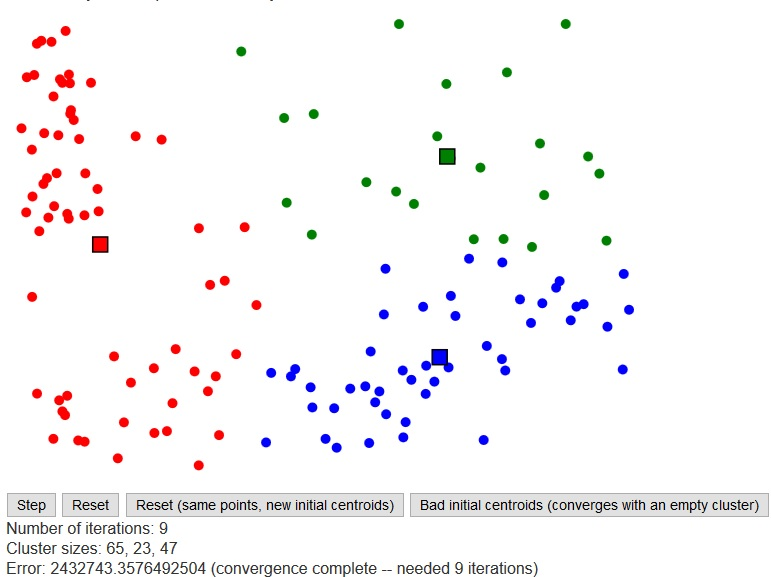
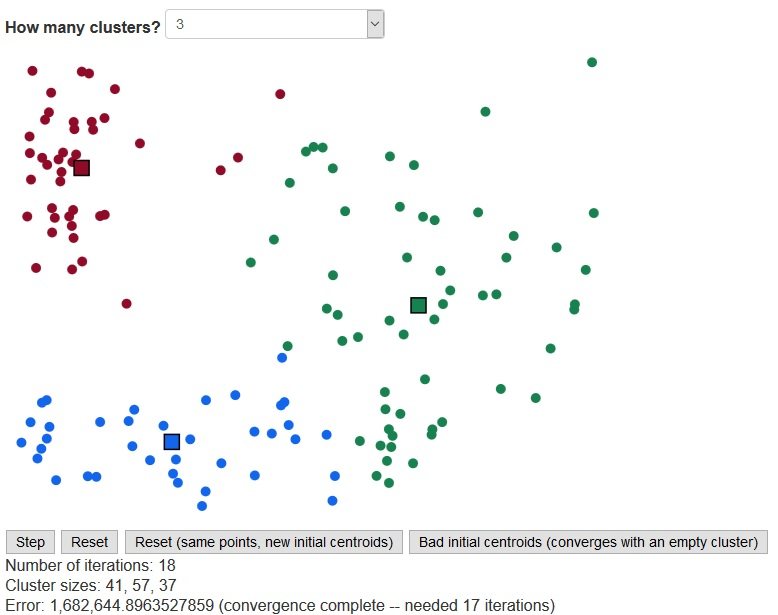
added support to vary k

diff --git a/kmeans.js b/kmeans.js
@@ -19,7 +19,32 @@ var MIDDLE_RIGHT_CLUSTER_SIZE = 20;
 var BOTTOM_CLUSTER_SIZE = 35;
 var NUM_ADDITIONAL_POINTS = 50;
 var NUM_CLUSTERS = 3;
-var COLORS = ["red", "green", "blue"];
+var COLORS = ["#910b28", "#178250", "#1266ed", "#ff7b00", "#80aa03"]; // red, blue, green, orange, yellowish-green
+
+function changeNumClusters(n) {
+	NUM_CLUSTERS = n;
+	resetCentroids();
+}
+
+function showNumberWithCommas(x) {
+	var xAsString = "" + x;
+	var decimalIndex = xAsString.indexOf(".");
+	var integerPart = "", decimalPart = "";
+	if(decimalIndex >= 0) {
+		var integerPart = xAsString.substring(0, xAsString.indexOf("."));
+		var decimalPart = xAsString.substring(xAsString.indexOf(".") + 1, xAsString.length);
+	} else integerPart = xAsString;
+	var rval = "";
+	while(integerPart.length > 3) {
+		rval = "," + integerPart.substring(integerPart.length - 3, integerPart.length) + rval;
+		integerPart = integerPart.substring(0, integerPart.length - 3);
+	}
+	rval = integerPart + rval;
+	if(decimalIndex >= 0){
+		rval += "." + decimalPart;
+	}
+	return rval;
+}
 
 function initStats() {
 	document.getElementById("iters").innerHTML = "Number of iterations: " + numIters;
@@ -149,6 +174,11 @@ function badCentroids() { // assumes at least 3 clusters
 	centroids[centroids.length-2].y = RECT_HEIGHT + 3;
 	centroids[centroids.length-1].x = topLeftCorner.x + 25 + RECT_WIDTH;
 	centroids[centroids.length-1].y = RECT_HEIGHT + 3;
+	for(var i = 0; i < centroids.length - 3; i++) {
+		while(centroids[i].y <= centroids[centroids.length-1].y + 10) {
+			centroids[i].y += 10;
+		}
+	}
 
 	nextUpdateIsRecluster = true;
 	initStats();
@@ -204,6 +234,12 @@ function computeCentroids() {
 			centroids[i].y = HEIGHT * 5;
 		}
 	}
+	old_error = error;
+	error = 0;
+	for(var i = 0; i < points.length; i++) {
+		error += dist(points[i], centroids[COLORS.indexOf(points[i].color)]);
+	}
+
 	numIters++;
 }
 
@@ -216,7 +252,7 @@ function update() {
 		converged = true;
 		convergedText = " (convergence complete -- needed " + numIters + " iterations)";
 	}
-	document.getElementById("error").innerHTML = "Error: " + error + convergedText;
+	document.getElementById("error").innerHTML = "Error: " + showNumberWithCommas(error) + convergedText;
 }
 
 function clickStep() {

diff --git a/index.html b/index.html
@@ -43,7 +43,7 @@
 
 <div class="container">
 
-	<h4>K-Means Visualization (specifically 3-means)</h4>
+	<h4>K-Means Visualization</h4>
 
 	<hr>
 
@@ -60,8 +60,18 @@
 	<p>How does the bad initial centroids button work? It looks in the top for a 100x60 empty box (no points inside) and sticks
 	a centroid at the top middle of that box, then two other centroids to the left and right, slightly below it. Since all of
 	the points are guaranteed to be generated with height at least 10, the highest centroid should be farther away from all
-	points than every other centroid.</p>
+	points than at least one other centroid.</p>
 
+	<div> <b>How many clusters?</b>
+		<select id="_k" name="k" onchange="changeNumClusters(parseInt(this[this.selectedIndex].value));">
+			<option value="3" selected="selected">3</option>
+			<option value="4">4</option>
+			<option value="5">5</option>
+		</select>
+	</div>
+	<script type="text/javascript">
+		document.querySelector("#_k").selectedIndex = 0; // necessary in firefox
+	</script>
 	<div id="kmeans"></div>
 	<div>
 		<input name="stepButton"

diff --git a/README.md b/README.md
@@ -1,6 +1,6 @@
 # k-Means Visualization
 
-k-means visualization (specifically 3-means) <br>
+k-means visualization <br>
 Last Updated: October 5, 2017 <br>
 Author: Aaron Blumenfeld
 
@@ -14,6 +14,8 @@ are then randomly generated uniformly across the entire canvas. Initial centroid
 No special algorithms (like k-means++) are used here. You can also keep the same points and generate new
 random initial centroids.
 
+Can choose k = 3, 4, or, 5. Can also force a bad initial centroid assignment leading to an empty cluster.
+
 Some stats are also shown, demonstrating the speed of convergence and the fact that k-means
 only converges to a local minimum, not necessarily an absolute minimum (try choosing with different
 initial clusters and looking at the error term, and the cluster sizes). An iteration is defined to
@@ -22,7 +24,7 @@ be a cluster assignment and a re-computation of the centroids.
 How does the bad initial centroids button work? It looks in the top for a 100x60 empty box
 (no points inside) and sticks a centroid at the top middle of that box, then two other centroids
 to the left and right, slightly below it. Since all of the points are guaranteed to be generated
-with height at least 10, the highest centroid should be farther away from all points than every
-other centroid.
+with height at least 10, the highest centroid should be farther away from all points than at least
+one other centroid.
 
 Can be seen live at http://aaronblumenfeld.com/kmeans/
